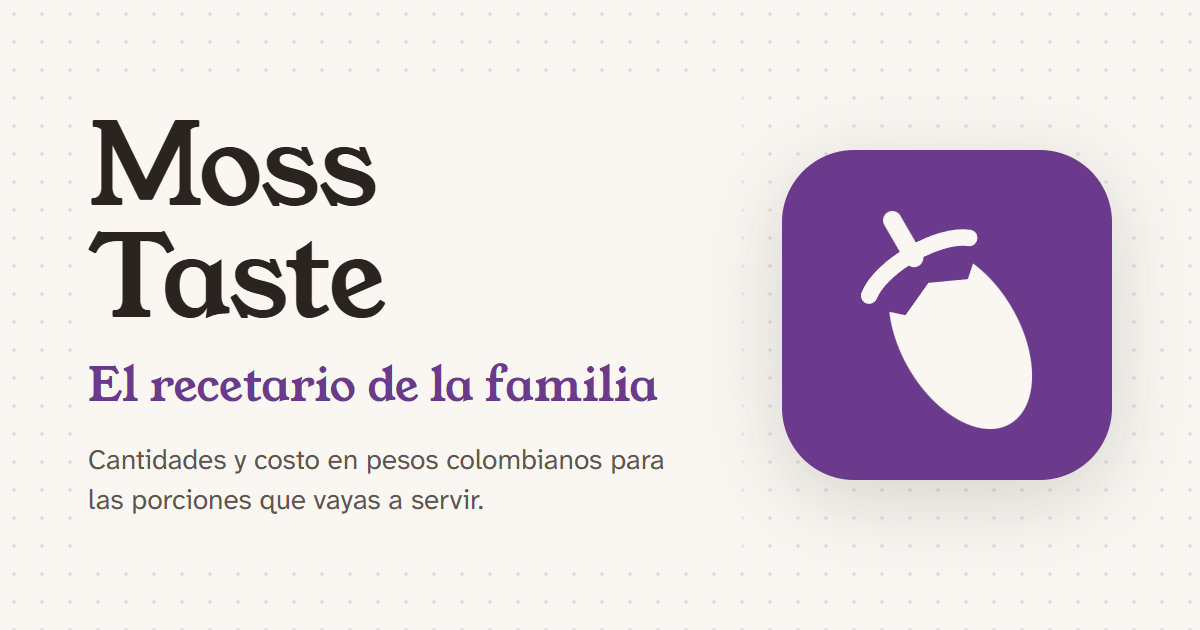
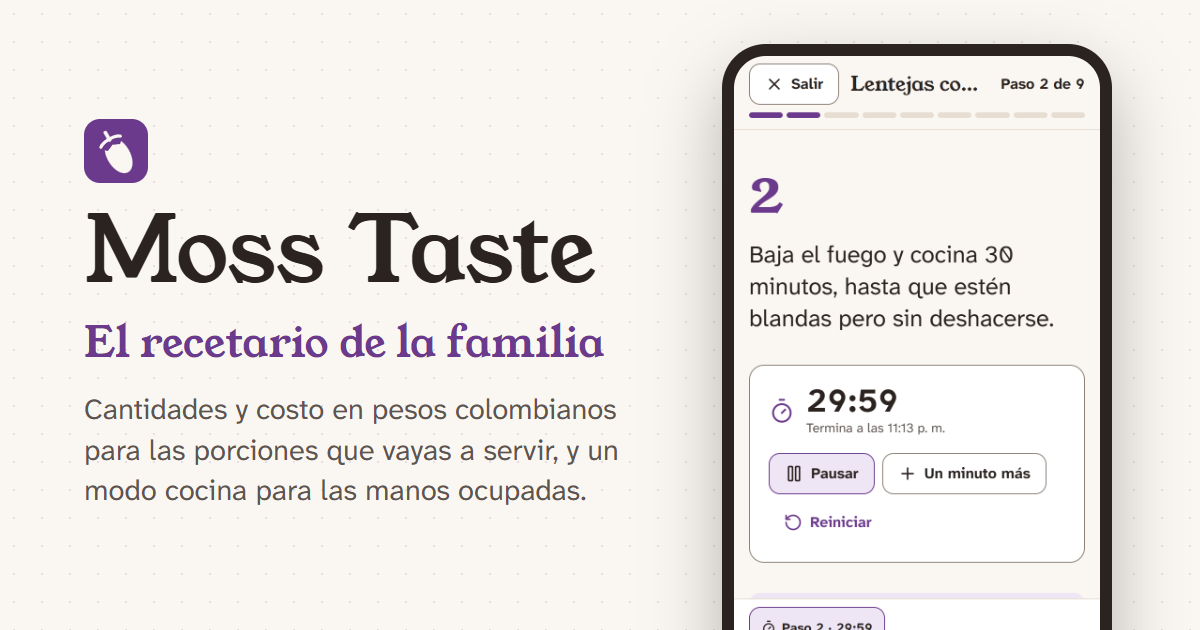
feat(seo): muestra el modo cocina al compartir y el alt de twitter

diff --git a/index.html b/index.html
@@ -34,10 +34,11 @@
     <meta property="og:image" content="https://sergio-velandia.dev/Moss-Taste/og-imagen.png" />
     <meta property="og:image:width" content="1200" />
     <meta property="og:image:height" content="630" />
-    <meta property="og:image:alt" content="Moss Taste, el recetario de la familia: cantidades y costo en pesos colombianos para las porciones que vayas a servir." />
+    <meta property="og:image:alt" content="Moss Taste, el recetario de la familia: un teléfono con el modo cocina abierto, con el paso, su temporizador y botones grandes." />
     <meta name="twitter:card" content="summary_large_image" />
     <meta name="twitter:title" content="Moss Taste, el recetario de la familia" />
     <meta name="twitter:image" content="https://sergio-velandia.dev/Moss-Taste/og-imagen.png" />
+    <meta name="twitter:image:alt" content="Moss Taste, el recetario de la familia: un teléfono con el modo cocina abierto, con el paso, su temporizador y botones grandes." />
     <meta name="twitter:description" content="Recetas de la familia con cantidades y costo en pesos colombianos para cualquier número de porciones." />
   </head>
   <body>

diff --git a/scripts/paginasEstaticas.test.ts b/scripts/paginasEstaticas.test.ts
@@ -81,7 +81,7 @@ describe('paginasEstaticas', () => {
     })
     expect(html).toContain('<meta property="og:image" content="https://sergio-velandia.dev/Moss-Taste/recetas/changua/og.jpg"')
     expect(html).toContain('<meta name="twitter:image" content="https://sergio-velandia.dev/Moss-Taste/recetas/changua/og.jpg"')
-    expect(html).toContain('<meta property="og:image:alt" content="Plato de changua."')
+    expect(html).toContain('<meta name="twitter:image:alt" content="Plato de changua."')
   })
 
   it('el sitemap incluye las recetas indexables y no el modo cocina', () => {

diff --git a/scripts/paginasEstaticas.ts b/scripts/paginasEstaticas.ts
@@ -55,6 +55,7 @@ export function htmlDePagina(base: string, pagina: Pagina): string {
       [/(<meta property="og:image" content=")[^"]*/, `$1${escapar(imagen)}`],
       [/(<meta property="og:image:alt" content=")[^"]*/, `$1${escapar(alt)}`],
       [/(<meta name="twitter:image" content=")[^"]*/, `$1${escapar(imagen)}`],
+      [/(<meta name="twitter:image:alt" content=")[^"]*/, `$1${escapar(alt)}`],
     )
   }
 

diff --git a/docs/imagenes.md b/docs/imagenes.md
@@ -1,6 +1,6 @@
 # Imágenes del sitio
 
-`public/og-imagen.png` (1200 × 630, para compartir), `public/apple-touch-icon.png` (180 × 180) y
+`public/og-imagen.png` (1200 × 630, para compartir, con una captura real del modo cocina), `docs/social-preview.png` (1280 × 640, para Settings → General → Social preview del repo), `public/apple-touch-icon.png` (180 × 180) y
 `public/icono-192.png` / `public/icono-512.png` (manifest, con zona segura para íconos adaptables)
 se generaron con Edge a partir de HTML, usando el favicon y las fuentes del repo.
 
